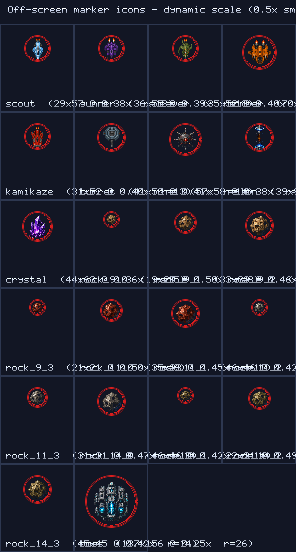
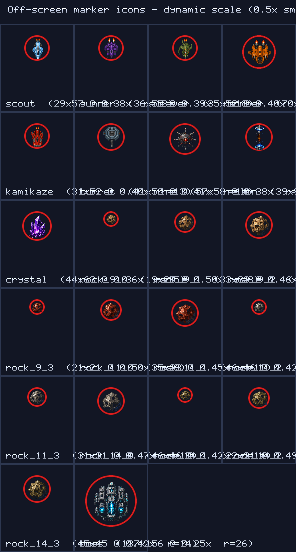
v0.9.347: smoother marker circle via 4x supersample + smoothscale
Replaced the gfxdraw.aacircle approach (only AAed a 1-pixel outline on
each side of the ring) with a 4x supersampled draw + smoothscale down.
The ring's edge alpha now falls off cleanly at every radius. Sprite
icon blits AFTER the smoothscale so its pixel art stays crisp.

diff --git a/pewpew.py b/pewpew.py
@@ -138,7 +138,7 @@ def _web_is_touch():
 # features, major for big-rewrites. Skipping the bump means the next user
 # sees the same number and can't tell if they're on the latest build.
 # ──────────────────────────────────────────────────────────────────────────
-VERSION = "0.9.346"
+VERSION = "0.9.347"
 
 # ──────────────────────────────────────────────────────────────────────────
 # HUD layout suppression
@@ -8419,10 +8419,16 @@ def _dynamic_marker_scale(max_dim):
     return 0.5 + (0.25 - 0.5) * t
 
 
+_MARKER_RING_SUPERSAMPLE = 4   # 4x oversample, smoothscale down for AA
+
+
 def _build_marker_icon(sprite):
-    """Return (icon Surface with red AA ring + scaled sprite centred,
-    circle_radius). Surface size is just big enough to hold the ring
-    + a couple of px padding."""
+    """Return (icon Surface with smooth red ring + scaled sprite centred,
+    circle_radius). The ring is rendered at 4× resolution and
+    smoothscaled down — much cleaner than the 1-pixel-ring AA
+    gfxdraw.aacircle gives at these radii. The sprite icon blits on
+    top AFTER the smoothscale so its pixel art stays crisp instead of
+    getting blurred."""
     w, h = sprite.get_size()
     scale = _dynamic_marker_scale(max(w, h))
     sw = max(1, int(round(w * scale)))
@@ -8430,19 +8436,16 @@ def _build_marker_icon(sprite):
     scaled = pygame.transform.scale(sprite, (sw, sh))
     radius = max(2, int(math.ceil(math.hypot(sw, sh) / 2.0)))
     side = radius * 2 + _MARKER_CIRCLE_RING * 2 + 2
-    out = pygame.Surface((side, side), pygame.SRCALPHA)
-    cx = side // 2
-    cy = side // 2
-    pygame.draw.circle(out, _MARKER_CIRCLE_COLOR,
-                       (cx, cy), radius, _MARKER_CIRCLE_RING)
-    # AA outer + inner ring edges so the circle reads smooth at small
-    # radii. The middle pixels of the ring are still solid from the
-    # draw.circle above.
-    pygame.gfxdraw.aacircle(out, cx, cy, radius, _MARKER_CIRCLE_COLOR)
-    pygame.gfxdraw.aacircle(out, cx, cy,
-                            radius - _MARKER_CIRCLE_RING + 1,
-                            _MARKER_CIRCLE_COLOR)
-    out.blit(scaled, scaled.get_rect(center=(cx, cy)))
+
+    ss = _MARKER_RING_SUPERSAMPLE
+    ss_side = side * ss
+    ss_surf = pygame.Surface((ss_side, ss_side), pygame.SRCALPHA)
+    pygame.draw.circle(ss_surf, _MARKER_CIRCLE_COLOR,
+                       (ss_side // 2, ss_side // 2),
+                       radius * ss,
+                       _MARKER_CIRCLE_RING * ss)
+    out = pygame.transform.smoothscale(ss_surf, (side, side))
+    out.blit(scaled, scaled.get_rect(center=(side // 2, side // 2)))
     return out, radius
 
 
